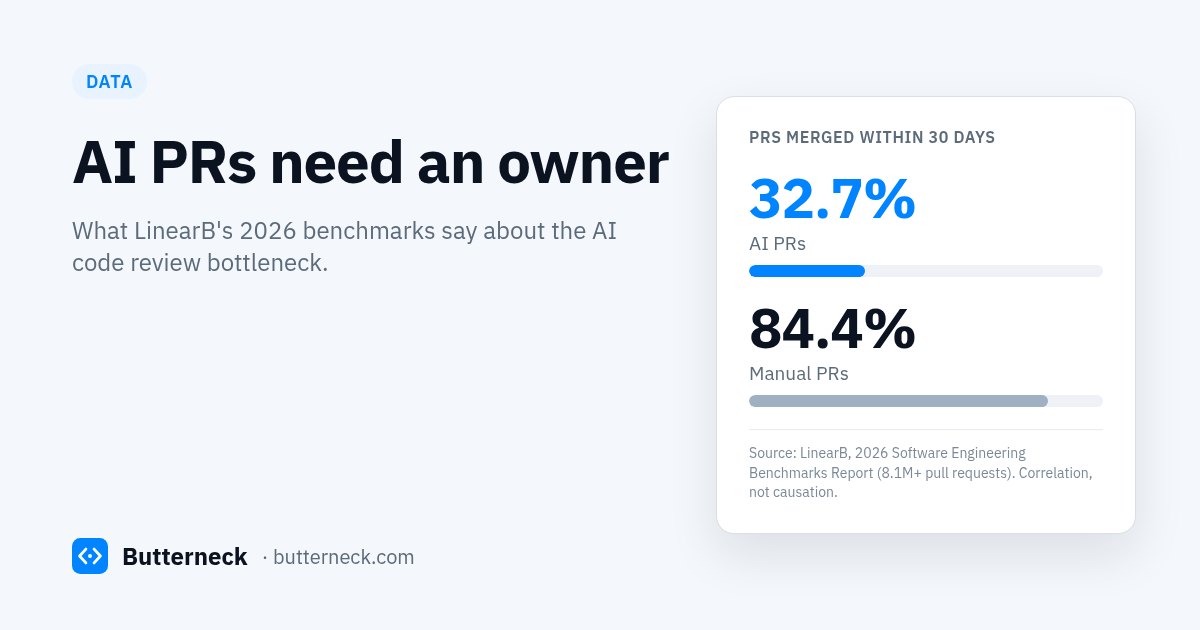
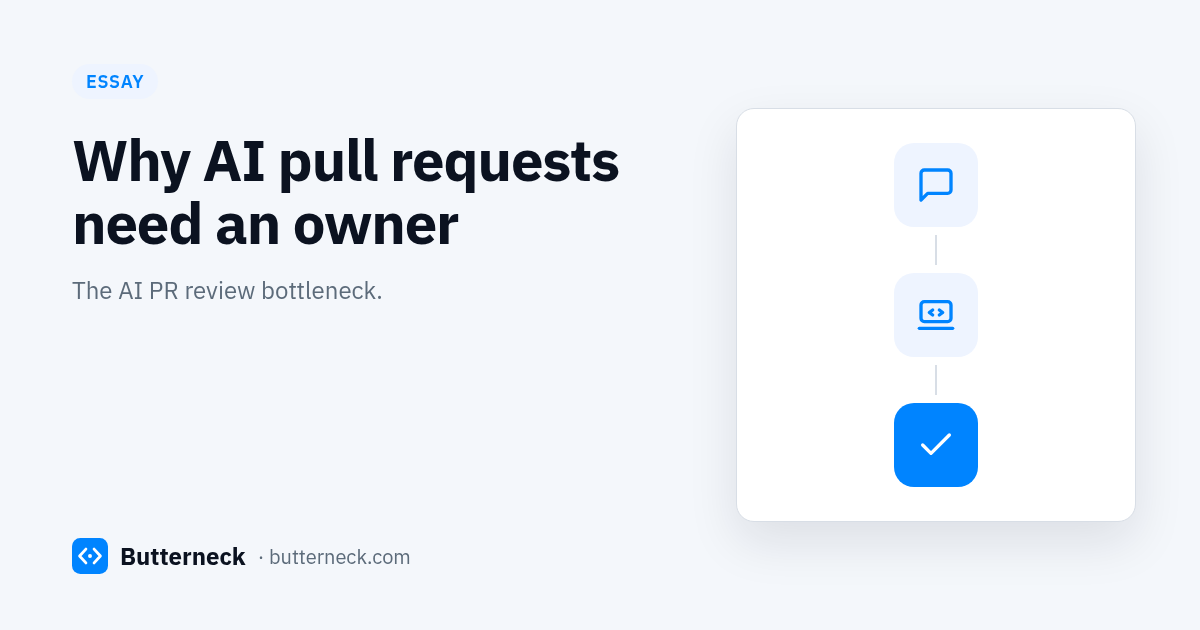
Name-free blog covers: Adaptl, Clogless, Itera, both Jira posts, AI PRs need an owner

diff --git a/src/content/posts/jira-ticket-to-pr-with-ai.ts b/src/content/posts/jira-ticket-to-pr-with-ai.ts
@@ -11,8 +11,8 @@ export const post: BlogPost = {
   author: "The Butterneck team",
   tags: ["Jira ticket to pull request", "Jira to PR with AI", "Jira AI automation", "AI coding agents", "code review", "link Jira ticket to PR", "Jira tickets for AI agents"],
   cover: {
-    src: "/blog/cover-jira-ticket-to-reviewable-change-v2.png",
-    alt: "Butterneck blog cover: from a labeled Jira ticket to a live preview that a developer reviews and ships",
+    src: "/blog/cover-jira-ticket-to-pr-with-ai.png",
+    alt: "Butterneck blog cover: From a ticket to a pull request with AI — Check a live preview before anyone opens the PR.",
     width: 1200,
     height: 630,
   },

diff --git a/src/content/posts/adaptl-alternative.ts b/src/content/posts/adaptl-alternative.ts
@@ -11,8 +11,8 @@ export const post: BlogPost = {
   author: "The Butterneck team",
   tags: ["Adaptl alternative", "comparison", "AI change requests", "product teams"],
   cover: {
-    src: "/blog/cover-live-preview-before-pull-request.png",
-    alt: "Butterneck blog cover: try the change on a live preview before anyone opens a pull request",
+    src: "/blog/cover-adaptl-alternative.png",
+    alt: "Butterneck blog cover: Try the change on a running app first — An honest comparison.",
     width: 1200,
     height: 630,
   },

diff --git a/src/content/posts/clogless-alternative.ts b/src/content/posts/clogless-alternative.ts
@@ -11,7 +11,7 @@ export const post: BlogPost = {
   tags: ["Clogless alternative", "comparison", "AI change requests", "product teams"],
   cover: {
     src: "/blog/cover-clogless-alternative.png",
-    alt: "Butterneck blog cover: Clogless alternative, an honest comparison. Cloud sandbox and a pull request, or a connected computer and a preview your developer publishes",
+    alt: "Butterneck blog cover: A live preview your developer reviews — An honest comparison for product teams.",
     width: 1200,
     height: 630,
   },

diff --git a/src/content/posts/ai-change-requests-in-jira.ts b/src/content/posts/ai-change-requests-in-jira.ts
@@ -8,8 +8,8 @@ export const post: BlogPost = {
   author: "The Butterneck team",
   tags: ["Jira", "AI change requests", "answer"],
   cover: {
-    src: "/blog/cover-jira-ticket-to-reviewable-change-v2.png",
-    alt: "Butterneck blog cover: AI change requests in Jira: how to start one from a ticket",
+    src: "/blog/cover-ai-change-requests-in-jira.png",
+    alt: "Butterneck blog cover: AI change requests from a ticket — How to start one from a ticket.",
     width: 1200,
     height: 630,
   },

diff --git a/src/content/posts/itera-alternative.ts b/src/content/posts/itera-alternative.ts
@@ -11,7 +11,7 @@ export const post: BlogPost = {
   tags: ["Itera alternative", "comparison", "AI change requests", "product teams"],
   cover: {
     src: "/blog/cover-itera-alternative.png",
-    alt: "Butterneck blog cover: Itera alternative. Plain-words change requests on a live preview, and your developers approve what ships",
+    alt: "Butterneck blog cover: Plain-words change requests on a live preview — Your devs approve what ships.",
     width: 1200,
     height: 630,
   },

diff --git a/src/content/posts/ai-prs-need-an-owner.ts b/src/content/posts/ai-prs-need-an-owner.ts
@@ -19,7 +19,7 @@ export const post: BlogPost = {
   ],
   cover: {
     src: "/blog/cover-ai-prs-need-an-owner.png",
-    alt: "Butterneck blog cover: AI PRs need an owner. 32.7% of AI PRs vs 84.4% of manual PRs merged within 30 days. Source: LinearB 2026 Software Engineering Benchmarks Report",
+    alt: "Butterneck blog cover: Why AI pull requests need an owner — The AI PR review bottleneck.",
     width: 1200,
     height: 630,
   },
